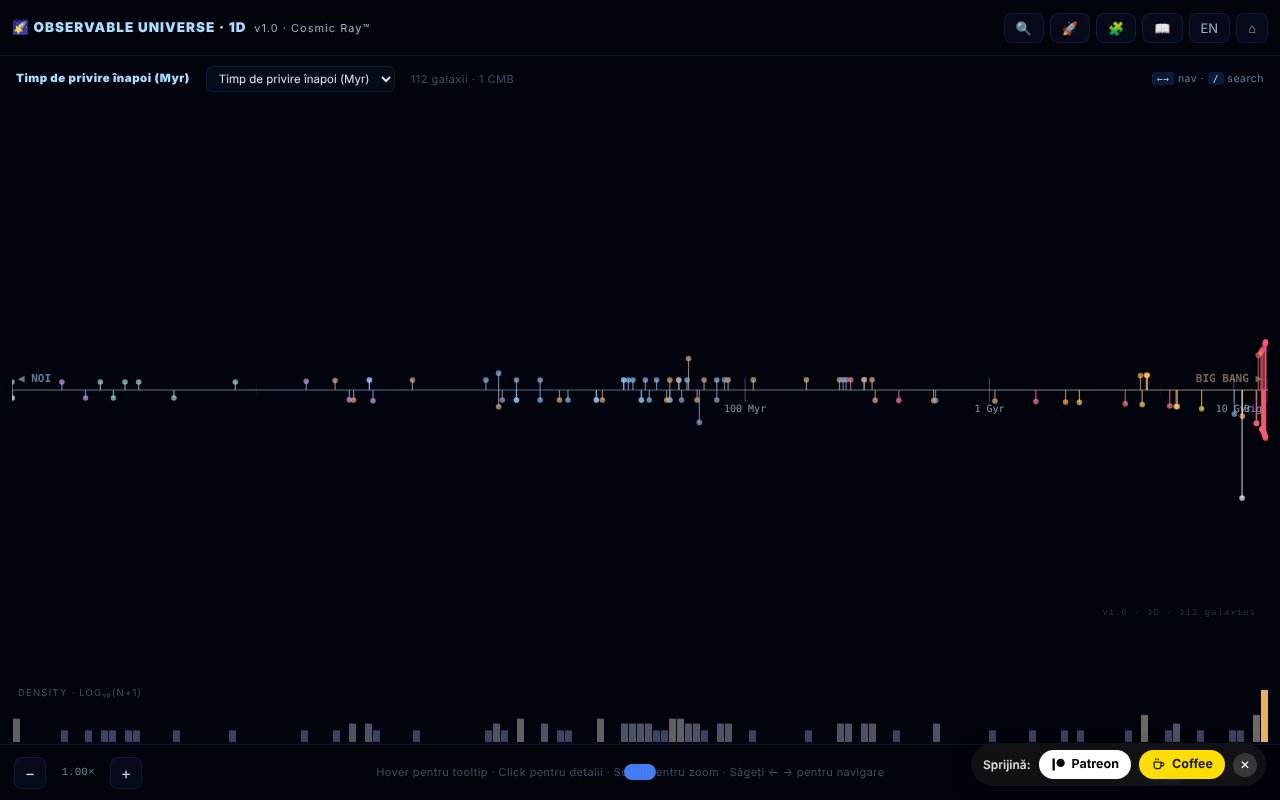
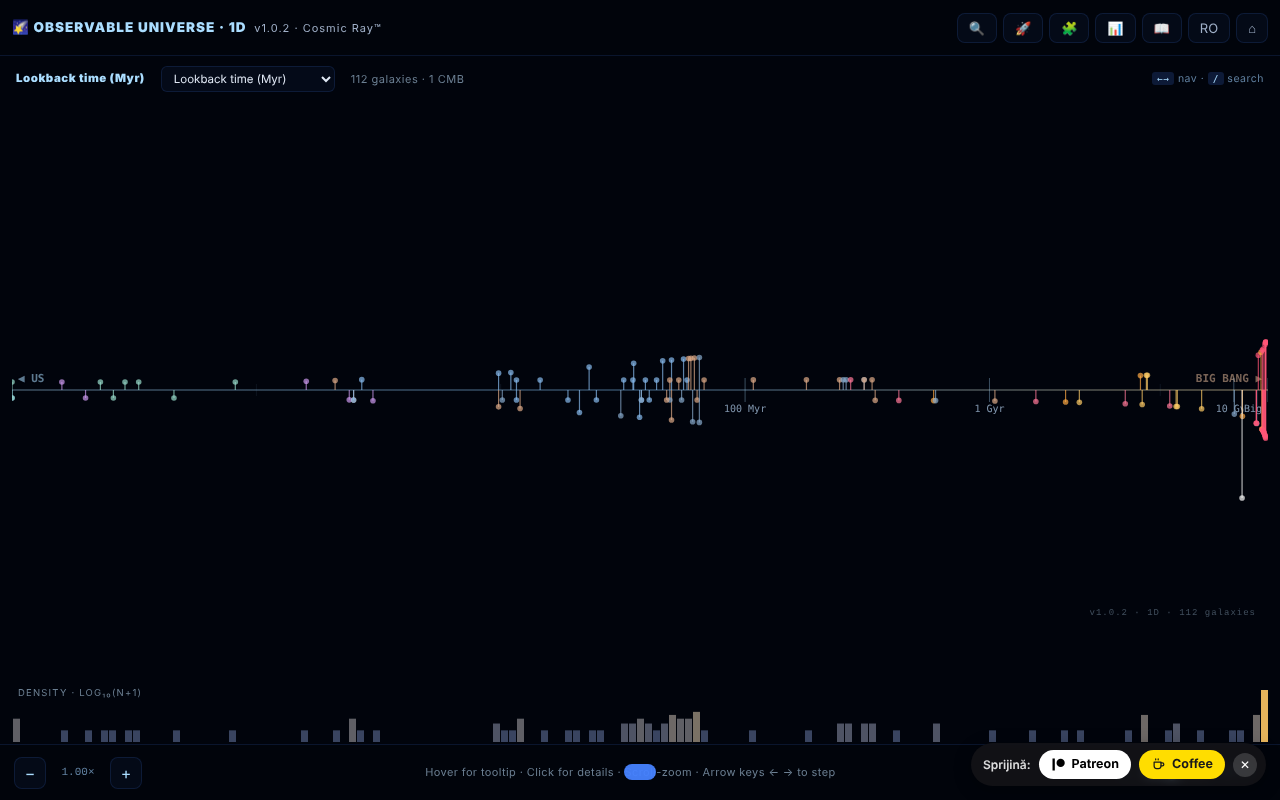
Runda 6 (11 octombrie 2026): reparații și îmbunătățiri
Claude-Session: https://claude.ai/code/session_01D2sCEb3hy3nutYexhUfQFs

diff --git a/index.html b/index.html
@@ -25,12 +25,12 @@
   *,*::before,*::after{animation-duration:.001ms!important;animation-iteration-count:1!important;transition-duration:.001ms!important;scroll-behavior:auto!important}
 }
 </style>
-  <meta http-equiv="Content-Security-Policy" content="default-src 'self'; img-src 'self' data: blob:; style-src 'self' 'unsafe-inline'; font-src 'self' data:; media-src 'self' blob: data:; object-src 'none'; base-uri 'self'; form-action 'self'; worker-src 'self' blob:; script-src 'self' 'unsafe-inline' blob:; connect-src 'self'">
+  <meta http-equiv="Content-Security-Policy" content="default-src 'self'; img-src 'self' data: blob:; style-src 'self' 'unsafe-inline'; font-src 'self' data:; media-src 'self' blob: data:; object-src 'none'; base-uri 'self'; form-action 'self'; worker-src 'self' blob:; script-src 'self' 'sha256-WaLzOR77RKB3c0jzbO7V4q0lpVrAH0MFipmwVmMiIa4=' blob:; connect-src 'self'">
 <meta name="viewport" content="width=device-width,initial-scale=1,viewport-fit=cover">
 <meta name="theme-color" content="#01040c">
-<title>Observable Universe · 1D · v1.0.1 · The Cosmic Ray™</title>
+<title>Observable Universe · 1D · v1.0.2 · The Cosmic Ray™</title>
 <meta name="description" content="1D map of the observable universe — 112 galaxies projected on a single radial axis. Switch between lookback time, comoving distance, redshift, and scale factor. Logarithmic histogram of cosmic density. Quiz, guided tour, accessibility (prefers-reduced-motion, daltonism, keyboard nav), bilingual RO/EN, persistent preferences. v1.0 — The Cosmic Ray™ companion to the 2D and 3D versions.">
-<meta property="og:title" content="Observable Universe · 1D · v1.0.1 · The Cosmic Ray™">
+<meta property="og:title" content="Observable Universe · 1D · v1.0.2 · The Cosmic Ray™">
 <meta property="og:description" content="The radial truth: 112 galaxies on a single axis. Distance is the only honest dimension.">
 <meta property="og:type" content="website">
 
@@ -68,6 +68,7 @@ body.daltonism { --accent: #33bbee; --hot: #009988; }
 #title { font-weight: 900; font-size: 13.5px; letter-spacing: 1px; color: var(--accent);
   flex-shrink: 0; }
 #title .ver { color: var(--dim); font-weight: 400; font-size: 11px; margin-left: 4px; }
+@media (max-width: 420px) { #title { font-size: 11.5px; letter-spacing: 0.2px; } .tbtn { padding: 6px 9px; } #topbtns { gap: 4px; } }
 #topbtns { display: flex; gap: 6px; margin-left: auto; flex-wrap: nowrap; }
 .tbtn { background: rgba(70,130,255,0.05); border: 1px solid var(--line); color: var(--dim);
   padding: 6px 11px; border-radius: 8px; cursor: pointer; font-size: 13px; font-family: inherit;
@@ -181,6 +182,33 @@ body.daltonism { --accent: #33bbee; --hot: #009988; }
 #srchHint { display: flex; gap: 14px; margin-top: 12px; font-size: 10.5px; color: var(--dimmest); }
 #srchHint kbd { background: rgba(70,130,255,0.18); color: var(--accent); padding: 1px 6px;
   border-radius: 4px; font-family: 'Courier New', monospace; font-size: 10px; }
+
+/* ─ DATA TABLE OVERLAY ─ */
+#tblOvl { position: fixed; inset: 0; background: rgba(0,0,8,0.88); backdrop-filter: blur(10px);
+  z-index: 500; display: none; align-items: center; justify-content: center; }
+#tblOvl.open { display: flex; }
+#tblBox { background: var(--bg2); border: 1px solid var(--line); border-radius: 12px;
+  width: min(900px, 96vw); height: min(84vh, 760px); display: flex; flex-direction: column; overflow: hidden; }
+#tblHdr { display: flex; justify-content: space-between; align-items: center; padding: 13px 18px; border-bottom: 1px solid var(--line); flex-shrink: 0; }
+#tblTtl { color: var(--accent); font-weight: 900; font-size: 13px; letter-spacing: 0.5px; }
+#tblClose { cursor: pointer; color: var(--dim); padding: 4px 10px; border-radius: 6px; font-size: 16px; }
+#tblClose:hover { background: rgba(255,100,100,0.12); color: var(--crit); }
+#tblCtl { display: flex; gap: 10px; align-items: center; flex-wrap: wrap; padding: 10px 18px; border-bottom: 1px solid var(--line); flex-shrink: 0; }
+#tblFilter { flex: 1 1 160px; min-width: 0; padding: 8px 10px; border-radius: 8px; border: 1px solid var(--line); background: rgba(0,0,0,0.35); color: var(--fg); font-size: 13px; font-family: inherit; }
+#tblFilter:focus-visible, #tblWrap:focus-visible { outline: 2px solid var(--accent); }
+#tblCount { font-size: 11px; color: var(--dim); }
+#tblWrap { flex: 1; overflow: auto; scrollbar-width: thin; }
+#tblTable { border-collapse: collapse; width: 100%; font-size: 12px; }
+#tblTable th { position: sticky; top: 0; background: var(--bg2); border-bottom: 1px solid var(--line); text-align: left; padding: 0; white-space: nowrap; }
+#tblTable th button { all: unset; box-sizing: border-box; cursor: pointer; padding: 8px 10px; width: 100%; color: var(--accent); font-weight: 700; font-size: 11px; letter-spacing: 0.4px; }
+#tblTable th button:hover { background: rgba(70,130,255,0.1); }
+#tblTable th button:focus-visible { outline: 2px solid var(--accent); outline-offset: -2px; }
+#tblTable td { padding: 6px 10px; border-bottom: 1px solid var(--line2); white-space: nowrap; font-family: 'Courier New', monospace; color: var(--fg); }
+#tblTable td.nm { font-family: inherit; }
+#tblTable td.nm button { all: unset; cursor: pointer; color: var(--accent2); text-decoration: underline; text-underline-offset: 2px; }
+#tblTable td.nm button:focus-visible { outline: 2px solid var(--accent); outline-offset: 2px; }
+#tblTable td.ty { font-family: inherit; color: var(--dim); }
+#tblTable td.num { text-align: right; }
 
 /* ─ GUIDE OVERLAY ─ */
 #guideOvl { position: fixed; inset: 0; background: rgba(0,0,8,0.88); backdrop-filter: blur(10px);
@@ -311,11 +339,12 @@ body.daltonism { --accent: #33bbee; --hot: #009988; }
 
 <!-- TOPBAR -->
 <header id="topbar" role="banner">
-  <div id="title">🌠 OBSERVABLE UNIVERSE · 1D <span class="ver">v1.0.1 · Cosmic Ray™</span></div>
+  <div id="title">🌠 OBSERVABLE UNIVERSE · 1D <span class="ver">v1.0.2 · Cosmic Ray™</span></div>
   <div id="topbtns">
     <button class="tbtn" id="btnSearch" aria-label="Search galaxies" title="Search (/)">🔍</button>
     <button class="tbtn" id="btnTour"   aria-label="Guided tour"     title="Tour">🚀</button>
     <button class="tbtn" id="btnQuiz"   aria-label="Cosmic quiz"     title="Quiz">🧩</button>
+    <button class="tbtn" id="btnTable"  aria-label="Data table"      title="Data table (D)">📊</button>
     <button class="tbtn" id="btnGuide"  aria-label="User guide"      title="Guide">📖</button>
     <button class="tbtn" id="btnLang"   aria-label="Toggle language" title="Limba / Language">RO</button>
     <button class="tbtn" id="btnReset"  aria-label="Reset view"      title="Reset">⌂</button>
@@ -340,7 +369,7 @@ body.daltonism { --accent: #33bbee; --hot: #009988; }
   </div>
   <div id="rayContainer">
     <canvas id="rayCanvas" tabindex="0" aria-label="1D cosmic distance visualization"></canvas>
-    <div id="vbadge">v1.0.1 · 1D · 112 galaxies</div>
+    <div id="vbadge">v1.0.2 · 1D · 112 galaxies</div>
   </div>
   <div id="histContainer">
     <canvas id="histCanvas" aria-hidden="true"></canvas>
@@ -416,6 +445,24 @@ body.daltonism { --accent: #33bbee; --hot: #009988; }
   </div>
 </div>
 
+<!-- DATA TABLE OVERLAY -->
+<div id="tblOvl" role="dialog" aria-modal="true" aria-label="Data table">
+  <div id="tblBox">
+    <div id="tblHdr">
+      <span id="tblTtl">📊 DATA TABLE</span>
+      <span id="tblClose" role="button" tabindex="0" aria-label="Close">✕</span>
+    </div>
+    <div id="tblCtl">
+      <input id="tblFilter" type="search" autocomplete="off" aria-label="Filter galaxies" placeholder="Filter…">
+      <button class="actBtn" id="tblCsv" type="button">⬇ CSV</button>
+      <span id="tblCount" role="status" aria-live="polite"></span>
+    </div>
+    <div id="tblWrap" tabindex="0" role="region" aria-label="Galaxy table">
+      <table id="tblTable"><thead id="tblHead"></thead><tbody id="tblBody"></tbody></table>
+    </div>
+  </div>
+</div>
+
 <!-- QUIZ OVERLAY -->
 <div id="quizOvl" role="dialog" aria-modal="true" aria-label="Quiz">
   <div id="quizBox">
@@ -463,7 +510,7 @@ body.daltonism { --accent: #33bbee; --hot: #009988; }
 //  the cosmic distance hierarchy becomes legible at a glance.
 // ═══════════════════════════════════════════════════════
 
-const VERSION = '1.0';
+const VERSION = '1.0.2';
 
 // ═══════════════════════════════════════════════════════
 //  COSMOLOGY (Planck 2018) — same single source of truth
@@ -850,11 +897,11 @@ const GALAXIES = [
    desc:"Spirală neregulată, tovarăș al lui M97 pe cer."},
   {n:"Hoag's Object",ra:218.2,dec:21.2,d:600.0,t:"ring",m:"💍",z:0.0428,lb:600,
    desc:"Galaxie-inel perfectă. Centru eliptic înconjurat de un inel de stele tinere albastre."},
-  {n:"NGC 1132 (Relicvă Fosil)",ra:43.6,dec:-1.3,d:1020.0,t:"elliptical",m:"⭕",z:0.0232,lb:1020,
+  {n:"NGC 1132 (Relicvă Fosil)",ra:43.6,dec:-1.3,d:330.0,t:"elliptical",m:"⭕",z:0.0232,lb:330,
    desc:"Galaxie gigantică izolată — probabil restul fuzionat al unui grup întreg."},
   {n:"Abell 2029 (BCG)",ra:227.7,dec:5.7,d:1060.0,t:"elliptical",m:"⭕",z:0.0767,lb:1060,
    desc:"Centrul unui roi masiv de galaxii X."},
-  {n:"Perseus (BCG IC 310)",ra:49.2,dec:41.3,d:780.0,t:"blazar",m:"⚡",z:0.0189,lb:780,
+  {n:"Perseus (BCG IC 310)",ra:49.2,dec:41.3,d:270.0,t:"blazar",m:"⚡",z:0.0189,lb:270,
    desc:"Sursă TeV. Variabilitate extremă detectată de MAGIC."},
   {n:"3C 48",ra:24.4,dec:33.2,d:5200.0,t:"quasar",m:"✨",z:0.367,lb:5200,
    desc:"Al doilea quasar identificat (1960). Sursă radio puternică."},
@@ -882,7 +929,7 @@ const GALAXIES = [
    desc:"Coliziune de mai multe roiuri — mai complexă decât Glonțul. Structură multi-corp."},
   {n:"CL 0024+1654",ra:6.6,dec:17.2,d:5500.0,t:"cluster",m:"🔵",z:0.395,lb:5500,
    desc:"Arc gravitațional multiplu — inele Einstein de la source la z>1."},
-  {n:"SDSS J1004+4112 (Cvintuplu quasar)",ra:151.2,dec:41.2,d:7000.0,t:"lens",m:"🔵",z:1.734,lb:7000,
+  {n:"SDSS J1004+4112 (Cvintuplu quasar)",ra:151.2,dec:41.2,d:10050.0,t:"lens",m:"🔵",z:1.734,lb:10050,
    desc:"Primul sistem quasar cu 5 imagini prin lentilare gravitațională."},
   {n:"NGC 1277 (BH gigant)",ra:49.8,dec:41.6,d:220.0,t:"elliptical",m:"⭕",z:0.017,lb:220,
    desc:"Gaura neagră de 17 miliarde M☉ = 14% masa totală a galaxiei. Neobișnuit de masivă."},
@@ -894,7 +941,7 @@ const GALAXIES = [
    desc:"Galaxie gigantică radio din constelația Centaurus."},
   {n:"NGC 4261",ra:184.8,dec:5.8,d:100.0,t:"elliptical",m:"⭕",z:0.00749,lb:100,
    desc:"Jet relativistic HST fotografiat — gaura neagră centrală de 400 milioane M☉."},
-  {n:"Abell 1689 (Lentilă)",ra:197.9,dec:-1.3,d:7200.0,t:"cluster",m:"🔵",z:0.183,lb:7200,
+  {n:"Abell 1689 (Lentilă)",ra:197.9,dec:-1.3,d:2330.0,t:"cluster",m:"🔵",z:0.183,lb:2330,
    desc:"Cel mai puternic sistem de lentile gravitaționale cunoscut. Harta materiei întunecate."},
   {n:"COSMOS-AzTEC-1",ra:150.1,dec:2.3,d:12500.0,t:"starburst",m:"🔥",z:4.342,lb:12200,
    desc:"Galaxie starburst masivă la z~4. 1000 stele/an (față de 1-2 pe an în Calea Lactee)."},
@@ -1537,10 +1584,11 @@ function setupInteraction() {
     // Search modal handles its own keys
     if (document.getElementById('srchOvl').classList.contains('show')) return;
     if (document.getElementById('quizOvl').classList.contains('open')) return;
+    if (document.getElementById('tblOvl').classList.contains('open')) return;
     if (e.key === '/' || (e.key === 'k' && (e.ctrlKey || e.metaKey))) {
       e.preventDefault(); openSearch();
     } else if (e.key === 'Escape') {
-      closePanel(); closeSearch(); closeGuide(); closeQuiz(); endTour();
+      closePanel(); closeSearch(); closeGuide(); closeQuiz(); closeTable(); endTour();
     } else if (e.key === 'ArrowRight') {
       e.preventDefault(); stepGalaxy(+1);
     } else if (e.key === 'ArrowLeft') {
@@ -1549,6 +1597,8 @@ function setupInteraction() {
       e.preventDefault(); zoomBy(1.3);
     } else if (e.key === '-' || e.key === '_') {
       e.preventDefault(); zoomBy(1 / 1.3);
+    } else if (e.key === 'd' || e.key === 'D') {
+      e.preventDefault(); openTable();
     } else if (e.key === 'g' || e.key === 'G') {
       openGuide('intro');
     } else if (e.key === 't' || e.key === 'T') {
@@ -1816,6 +1866,99 @@ function setupSearch() {
 }
 
 // ═══════════════════════════════════════════════════════
+//  DATA TABLE — sortable, filterable, CSV export (accessible alternative to the canvas)
+// ═══════════════════════════════════════════════════════
+const TBL = { key: 'd', dir: 1, q: '' };
+function tblRows() {
+  return GALAXIES.map((g, i) => {
+    const cv = cosmoVals(g);
+    return { i, g, n: g.n, t: g.t, d: g.d || 0, z: g.z || 0, lb: cv.lb || 0, co: cv.co || 0, a: cv.a };
+  });
+}
+function tblCols() {
+  const ro = currentLang === 'ro';
+  return [
+    { k: 'n',  l: ro ? 'Galaxie' : 'Galaxy' },
+    { k: 't',  l: ro ? 'Tip' : 'Type' },
+    { k: 'd',  l: ro ? 'Distanță (Mly)' : 'Distance (Mly)', num: true },
+    { k: 'z',  l: 'z', num: true },
+    { k: 'lb', l: 'Lookback (Myr)', num: true },
+    { k: 'co', l: 'Comoving (Mly)', num: true },
+  ];
+}
+function tblNorm(x) { return String(x || '').normalize('NFD').replace(/[\u0300-\u036f]/g, '').toLowerCase(); }
+function tblRender() {
+  const ro = currentLang === 'ro', cols = tblCols();
+  document.getElementById('tblTtl').textContent = ro ? '📊 TABEL DE DATE' : '📊 DATA TABLE';
+  document.getElementById('tblFilter').placeholder = ro ? 'Filtrează după nume sau tip…' : 'Filter by name or type…';
+  document.getElementById('tblFilter').setAttribute('aria-label', ro ? 'Filtrează galaxii' : 'Filter galaxies');
+  document.getElementById('tblClose').setAttribute('aria-label', ro ? 'Închide' : 'Close');
+  document.getElementById('tblOvl').setAttribute('aria-label', ro ? 'Tabel de date' : 'Data table');
+  const q = tblNorm(TBL.q).trim();
+  let rows = tblRows().filter(r => !q || tblNorm(r.n + ' ' + typeLabel(r.t, currentLang)).indexOf(q) >= 0);
+  const k = TBL.key, dir = TBL.dir;
+  rows.sort((a, b) => {
+    const x = a[k], y = b[k];
+    const c = (typeof x === 'string') ? x.localeCompare(y) : (x - y);
+    return (c || (a.i - b.i)) * dir;
+  });
+  document.getElementById('tblHead').innerHTML = '<tr>' + cols.map(c =>
+    '<th scope="col" aria-sort="' + (c.k === k ? (dir > 0 ? 'ascending' : 'descending') : 'none') + '"><button type="button" data-k="' + c.k + '">' + c.l + (c.k === k ? (dir > 0 ? ' ▲' : ' ▼') : '') + '</button></th>').join('') + '</tr>';
+  const fmt = v => v > 0 ? v.toLocaleString(ro ? 'ro-RO' : 'en-US', { maximumFractionDigits: v < 100 ? 1 : 0 }) : '0';
+  document.getElementById('tblBody').innerHTML = rows.map(r =>
+    '<tr><td class="nm"><button type="button" data-i="' + r.i + '">' + r.g.m + ' ' + r.n.replace(/&/g, '&amp;').replace(/</g, '&lt;') + '</button></td>' +
+    '<td class="ty">' + typeLabel(r.t, currentLang) + '</td>' +
+    '<td class="num">' + (r.d > 0 ? r.d.toLocaleString(ro ? 'ro-RO' : 'en-US') : '—') + '</td>' +
+    '<td class="num">' + fmtZ(r.z) + '</td>' +
+    '<td class="num">' + fmt(r.lb) + '</td>' +
+    '<td class="num">' + fmt(r.co) + '</td></tr>').join('');
+  document.getElementById('tblCount').textContent = rows.length + (ro ? ' din ' : ' of ') + GALAXIES.length + (ro ? ' galaxii · H₀ = ' : ' galaxies · H₀ = ') + userH0.toFixed(1);
+}
+function tblCsvCell(v) {
+  let s = String(v == null ? '' : v);
+  if (typeof v === 'string' && /^[=+\-@\t\r]/.test(s)) s = "'" + s;   // anti formula-injection, text cells only (numbers keep their sign)
+  return /[",\r\n]/.test(s) ? '"' + s.replace(/"/g, '""') + '"' : s;
+}
+function tblExportCsv() {
+  const rows = tblRows();
+  const out = [['name', 'type', 'distance_mly', 'z', 'lookback_myr', 'comoving_mly', 'scale_factor', 'ra_deg', 'dec_deg']];
+  rows.forEach(r => out.push([r.n, r.t, r.d, r.z, +r.lb.toFixed(1), +r.co.toFixed(1), +r.a.toFixed(5), r.g.ra, r.g.dec]));
+  const csv = '\ufeff' + out.map(r => r.map(tblCsvCell).join(',')).join('\r\n');
+  const blob = new Blob([csv], { type: 'text/csv;charset=utf-8' });
+  const url = URL.createObjectURL(blob);
+  const a = document.createElement('a');
+  a.href = url; a.download = 'observable-universe-1d-h0-' + userH0.toFixed(1) + '.csv';
+  document.body.appendChild(a); a.click(); a.remove();
+  setTimeout(() => URL.revokeObjectURL(url), 1000);
+  toast(currentLang === 'ro' ? 'CSV exportat (H₀ = ' + userH0.toFixed(1) + ')' : 'CSV exported (H₀ = ' + userH0.toFixed(1) + ')');
+}
+function openTable() {
+  document.getElementById('tblOvl').classList.add('open');
+  tblRender();
+  document.getElementById('tblFilter').focus();
+}
+function closeTable() { document.getElementById('tblOvl').classList.remove('open'); }
+function setupTable() {
+  document.getElementById('btnTable').addEventListener('click', openTable);
+  document.getElementById('tblClose').addEventListener('click', closeTable);
+  document.getElementById('tblClose').addEventListener('keydown', e => { if (e.key === 'Enter' || e.key === ' ') { e.preventDefault(); closeTable(); } });
+  document.getElementById('tblOvl').addEventListener('click', e => { if (e.target.id === 'tblOvl') closeTable(); });
+  document.getElementById('tblOvl').addEventListener('keydown', e => { if (e.key === 'Escape') { e.preventDefault(); e.stopPropagation(); closeTable(); } });
+  document.getElementById('tblFilter').addEventListener('input', e => { TBL.q = e.target.value; tblRender(); });
+  document.getElementById('tblCsv').addEventListener('click', tblExportCsv);
+  document.getElementById('tblHead').addEventListener('click', e => {
+    const b = e.target.closest('button[data-k]'); if (!b) return;
+    if (TBL.key === b.dataset.k) TBL.dir = -TBL.dir; else { TBL.key = b.dataset.k; TBL.dir = 1; }
+    tblRender();
+    const nb = document.querySelector('#tblHead button[data-k="' + TBL.key + '"]'); if (nb) nb.focus();
+  });
+  document.getElementById('tblBody').addEventListener('click', e => {
+    const b = e.target.closest('button[data-i]'); if (!b) return;
+    closeTable(); selectGalaxy(+b.dataset.i);
+  });
+}
+
+// ═══════════════════════════════════════════════════════
 //  PERMALINK — encode state in URL hash, restore on load
 // ═══════════════════════════════════════════════════════
 function buildPermalink() {
@@ -1931,6 +2074,9 @@ function applyI18N() {
   if (document.getElementById('guideOvl').classList.contains('open')) showTab(_activeTab);
   // Refresh open panel
   if (state.selected !== null) openPanel(GALAXIES[state.selected]);
+  if (document.getElementById('tblOvl').classList.contains('open')) tblRender();
+  document.getElementById('btnTable').title = isRO ? 'Tabel de date (D)' : 'Data table (D)';
+  document.getElementById('btnTable').setAttribute('aria-label', isRO ? 'Tabel de date' : 'Data table');
   // Search placeholder
   document.getElementById('srchInp').placeholder = isRO
     ? '🔍  Caută galaxie · Search galaxy...'
@@ -1971,6 +2117,7 @@ const GUIDE_RO = {
       <tr><td>Tour ghidat</td><td><kbd>T</kbd> sau 🚀</td><td>🚀</td></tr>
       <tr><td>Quiz</td><td><kbd>Q</kbd> sau 🧩</td><td>🧩</td></tr>
       <tr><td>Ghid</td><td><kbd>G</kbd> sau 📖</td><td>📖</td></tr>
+      <tr><td>Tabel de date (sortare, CSV)</td><td><kbd>D</kbd> sau 📊</td><td>📊</td></tr>
       <tr><td>Reset vedere</td><td>⌂</td><td>⌂</td></tr>
       <tr><td>Închide overlay</td><td><kbd>Esc</kbd></td><td>Tap în afara</td></tr>
     </table>
@@ -2045,6 +2192,11 @@ const GUIDE_RO = {
 
   changelog: `
     <h3>📋 Istoric versiuni</h3>
+    <h4>v1.0.2 (11 octombrie 2026) — Tabel și date</h4>
+    <ul>
+      <li>📊 Tabel de date (buton 📊 sau tasta <kbd>D</kbd>): toate galaxiile cu distanță, z, lookback și comoving calculate cu H₀ curent; sortabil, filtrabil, export CSV; alternativă accesibilă la hartă.</li>
+      <li>Distanțe din catalog aduse în acord cu z pentru NGC 1132 (≈ 330 Mly), Perseus/IC 310 (≈ 270 Mly), Abell 1689 (≈ 2 330 Mly) și SDSS J1004+4112 (≈ 10 050 Mly); valorile = timp de privire înapoi la z-ul publicat, în cosmologia ΛCDM a aplicației.</li>
+    </ul>
     <h4>v1.0.1 (11 octombrie 2026) — Corecții</h4>
     <ul>
       <li>Galaxiile apropiate (d &lt; 100 Mly) folosesc distanța din catalog pentru lookback/comoving; z nu mai produce valori absurde (Andromeda: lookback ≈ 2,5 Myr, comoving ≈ 2,5 Mly; z = −0,001, deplasare spre albastru, din viteză proprie).</li>
@@ -2119,6 +2271,7 @@ const GUIDE_EN = {
       <tr><td>Guided tour</td><td><kbd>T</kbd> or 🚀</td><td>🚀</td></tr>
       <tr><td>Quiz</td><td><kbd>Q</kbd> or 🧩</td><td>🧩</td></tr>
       <tr><td>Guide</td><td><kbd>G</kbd> or 📖</td><td>📖</td></tr>
+      <tr><td>Data table (sort, CSV)</td><td><kbd>D</kbd> or 📊</td><td>📊</td></tr>
       <tr><td>Reset view</td><td>⌂</td><td>⌂</td></tr>
       <tr><td>Close overlay</td><td><kbd>Esc</kbd></td><td>Tap outside</td></tr>
     </table>
@@ -2193,6 +2346,11 @@ const GUIDE_EN = {
 
   changelog: `
     <h3>📋 Changelog</h3>
+    <h4>v1.0.2 (October 11, 2026) — Table and data</h4>
+    <ul>
+      <li>📊 Data table (📊 button or <kbd>D</kbd>): all galaxies with distance, z, lookback and comoving computed at the current H₀; sortable, filterable, CSV export; an accessible alternative to the map.</li>
+      <li>Catalogue distances reconciled with z for NGC 1132 (≈ 330 Mly), Perseus/IC 310 (≈ 270 Mly), Abell 1689 (≈ 2,330 Mly) and SDSS J1004+4112 (≈ 10,050 Mly); values = lookback time at the published z in the app's ΛCDM cosmology.</li>
+    </ul>
     <h4>v1.0.1 (October 11, 2026) — Fixes</h4>
     <ul>
       <li>Nearby galaxies (d &lt; 100 Mly) use the catalogued distance for lookback/comoving instead of z-derived values (Andromeda: lookback ≈ 2.5 Myr, comoving ≈ 2.5 Mly; z = −0.001, a blueshift from peculiar velocity).</li>
@@ -2610,6 +2768,7 @@ function init() {
 
   // 9) Setup overlays + interaction
   setupSearch();
+  setupTable();
   setupGuide();
   setupTour();
   setupQuiz();
@@ -2747,7 +2906,7 @@ function runSmokeTests() {
   assert('typeLabel spiral RO is Spirală', typeLabel('spiral','ro') === 'Spirală');
   assert('typeLabel spiral EN is Spiral', typeLabel('spiral','en') === 'Spiral');
   // Version
-  assert('VERSION is 1.0', VERSION === '1.0');
+  assert('VERSION is 1.0.2', VERSION === '1.0.2');
   // EN_DESCS_EXTRA loaded
   assert('EN_DESCS_EXTRA is object', typeof EN_DESCS_EXTRA === 'object' && EN_DESCS_EXTRA !== null);
   assert('EN_DESCS_EXTRA has CMB entry', !!EN_DESCS_EXTRA['Orizont CMB (Radiație Cosmică de Fond)']);

diff --git a/README.md b/README.md
@@ -8,13 +8,14 @@ Harta 1D a universului observabil: 112 galaxii proiectate pe o singură axă rad
 
 ## Ce este
 
-O vizualizare dintr-un singur fișier HTML (v1.0.1) care așază 112 galaxii pe o singură axă, în funcție de distanță, „cel mai onest" proiect al universului: fără distorsiuni unghiulare, dar cu galaxiile aflate pe aceeași direcție suprapuse în același punct. Este varianta 1D, însoțitoare a versiunilor 2D și 3D. Datele folosesc cosmologia ΛCDM Planck 2018 (H₀ = 67,4 km/s/Mpc); aplicația se descrie ca „educațională”, cu un ton ironic în unele texte (nu este o publicație științifică); valorile sunt rotunjite sau aproximative, conform surselor din Credite. Interfața este bilingvă, română și engleză (pagina pornește în engleză).
+O vizualizare dintr-un singur fișier HTML (v1.0.2) care așază 112 galaxii pe o singură axă, în funcție de distanță, „cel mai onest" proiect al universului: fără distorsiuni unghiulare, dar cu galaxiile aflate pe aceeași direcție suprapuse în același punct. Este varianta 1D, însoțitoare a versiunilor 2D și 3D. Datele folosesc cosmologia ΛCDM Planck 2018 (H₀ = 67,4 km/s/Mpc); aplicația se descrie ca „educațională”, cu un ton ironic în unele texte (nu este o publicație științifică); valorile sunt rotunjite sau aproximative, conform surselor din Credite. Interfața este bilingvă, română și engleză (pagina pornește în engleză).
 
 ## Funcții
 
 - Patru moduri de axă: timp de privire înapoi (lookback time), distanță comobilă, redshift (z) și factor de scară (a = 1/(1+z)).
 - Histogramă logaritmică a densității galaxiilor.
 - Zoom pe axă, tooltip la hover, panou de detalii la click pe o galaxie.
+- **Tabel de date** (📊 sau tasta `D`): toate cele 112 de galaxii cu distanță, z, lookback și comoving calculate cu H₀ curent; coloane sortabile, filtru după nume/tip, export CSV (`observable-universe-1d-h0-<H₀>.csv`). Este și alternativa accesibilă la hartă (cititoare de ecran, navigare de la tastatură).
 - Căutare de galaxii (🔍), tur ghidat (🚀), quiz cosmic de 10 întrebări cu scor (🧩), ghid cu secțiunile Intro, Navigation, Axis Modes, Why 1D?, Terms, Limits, Changelog, Credits (📖).
 - Buton RO / EN pentru limbă și ⌂ pentru resetarea vizualizării.
 - „SHARE" generează un link permanent cu starea vizualizării în fragmentul URL (`#s=`); „COPY" copiază textul în clipboard.
@@ -25,7 +26,7 @@ O vizualizare dintr-un singur fișier HTML (v1.0.1) care așază 112 galaxii pe 
 1. Deschide pagina; alege modul de axă din antetul hărții (lookback time, comoving distance, redshift, scale factor) — tasta `M` le parcurge pe rând.
 2. Navighează: roata mouse-ului sau `+` / `-` pentru zoom, săgețile stânga/dreapta pentru a trece de la o galaxie la alta, click pe o galaxie pentru detalii.
 3. Căutare: apasă 🔍, tasta `/` sau `Ctrl/Cmd+K`; săgețile sus/jos aleg rezultatul, `Enter` îl selectează.
-4. Tastele `G` (ghid), `T` (tur), `Q` (quiz), `L` (limbă), `Esc` (închide panourile).
+4. Tastele `G` (ghid), `T` (tur), `Q` (quiz), `D` (tabel de date), `L` (limbă), `Esc` (închide panourile).
 5. În panoul unei galaxii apasă „SHARE" pentru link sau „COPY" pentru text.
 6. Butonul ⌂ resetează vizualizarea.
 
@@ -45,7 +46,12 @@ CC0 1.0 Universal (domeniu public) — vezi fișierul LICENSE
 
 ## Istoric / Changelog
 
-Ultima actualizare: 11 octombrie 2026 — v1.0.1.
+Ultima actualizare: 11 octombrie 2026 — v1.0.2.
+- Nou: tabel de date sortabil/filtrabil cu export CSV (vezi „Funcții”).
+- Distanțe din catalog aduse în acord cu redshift-ul publicat pentru patru intrări cu valori incoerente: NGC 1132 (z = 0,0232: 1 020 → ≈ 330 Mly), Perseus / IC 310 (z = 0,0189: 780 → ≈ 270 Mly), Abell 1689 (z = 0,183: 7 200 → ≈ 2 330 Mly), SDSS J1004+4112 (z = 1,734: 7 000 → ≈ 10 050 Mly). Valorile sunt timpul de privire înapoi la z în cosmologia ΛCDM a aplicației (H₀ = 67,4); z-urile au fost confirmate la 11.10.2026 (Wikipedia pentru NGC 1132 și Abell 1689, Inada et al. 2003 pentru SDSS J1004+4112). Alte intrări (de ex. Abell 370, 3C 48) au distanțe care diferă de lookback-ul la z cu 20–40%, dar rămân între lookback și distanța comobilă, deci nu au fost modificate.
+- CSP: scriptul este acum permis prin hash (`script-src 'sha256-…'`), fără `'unsafe-inline'`; aplicația nu are handlere inline.
+
+v1.0.1 (11 octombrie 2026):
 - Valori derivate corecte pentru galaxiile apropiate (d < 100 Mly): Andromeda arată acum lookback ≈ 2,5 Myr și comoving ≈ 2,5 Mly (înainte 14 Myr / 15 Mly, derivate din z); z = −0,001 (blueshift), nu +0,001. Pozițiile pe axă folosesc aceleași valori.
 - Eticheta de tip în română: „Spirală galaxie” în loc de „SPIRALĂ GALAXY”.
 - Etichetele axei au contur; antetul și widgetul de donații nu mai acoperă controalele pe 360 px. axe-core = 0 violări (inclusiv `region`).
